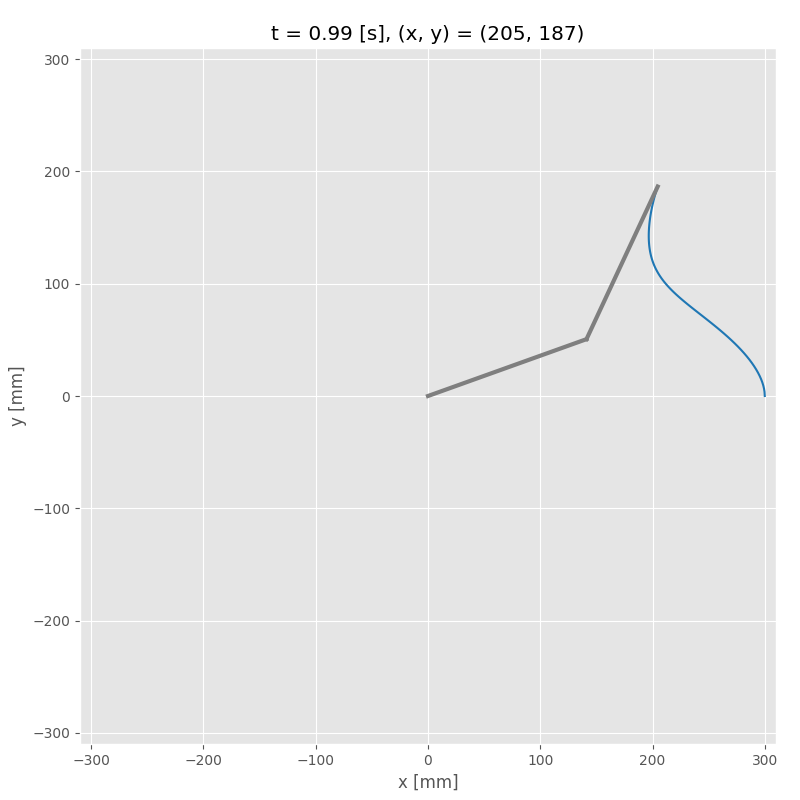
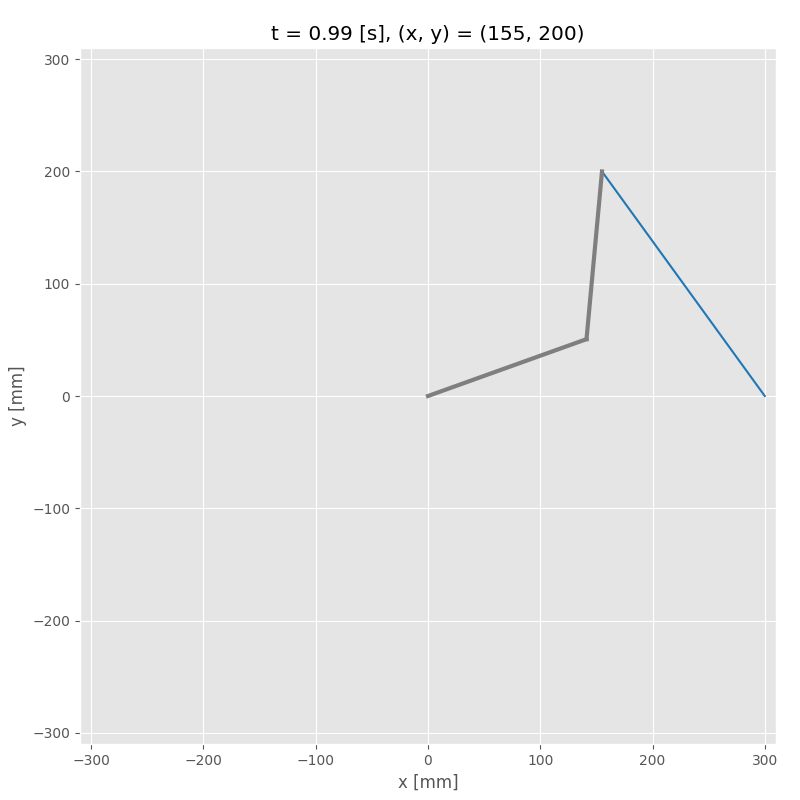
Debug forward kinematics

diff --git a/manipurator.py b/manipurator.py
@@ -14,8 +14,8 @@ class Manipurator():
     def forwardKinematics(self, theta1, theta2):
         x1 = self.l1 * math.cos(theta1)
         y1 = self.l1 * math.sin(theta1)
-        x2 = x1 + self.l2 * math.cos(theta2)
-        y2 = y1 + self.l2 * math.sin(theta2)
+        x2 = x1 + self.l2 * math.cos(theta1 + theta2)
+        y2 = y1 + self.l2 * math.sin(theta1 + theta2)
         return x2, y2
 
     def inverseKinematics(self, x, y, eps=1e-10):

diff --git a/animation.py b/animation.py
@@ -50,8 +50,8 @@ class AnimationMaker():
 
         x1 = self.l1 * math.cos(theta1)
         y1 = self.l1 * math.sin(theta1)
-        x2 = x1 + self.l2 * math.cos(theta2)
-        y2 = y1 + self.l2 * math.sin(theta2)
+        x2 = x1 + self.l2 * math.cos(theta1 + theta2)
+        y2 = y1 + self.l2 * math.sin(theta1 + theta2)
 
         self.trajectory_x.append(x2)
         self.trajectory_y.append(y2)
